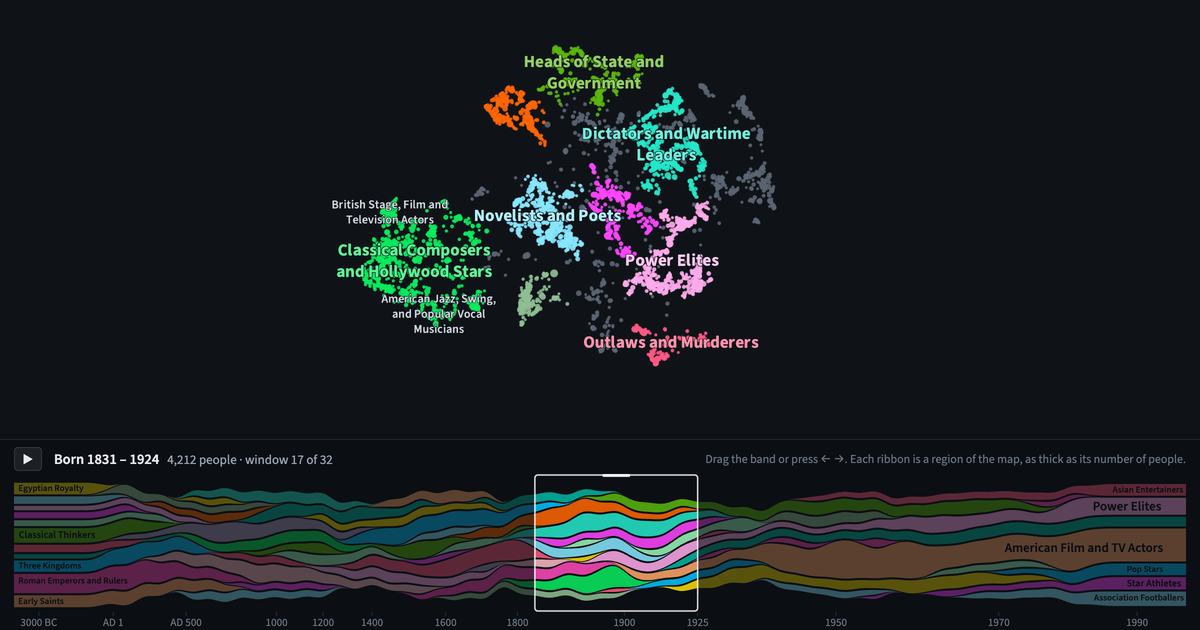
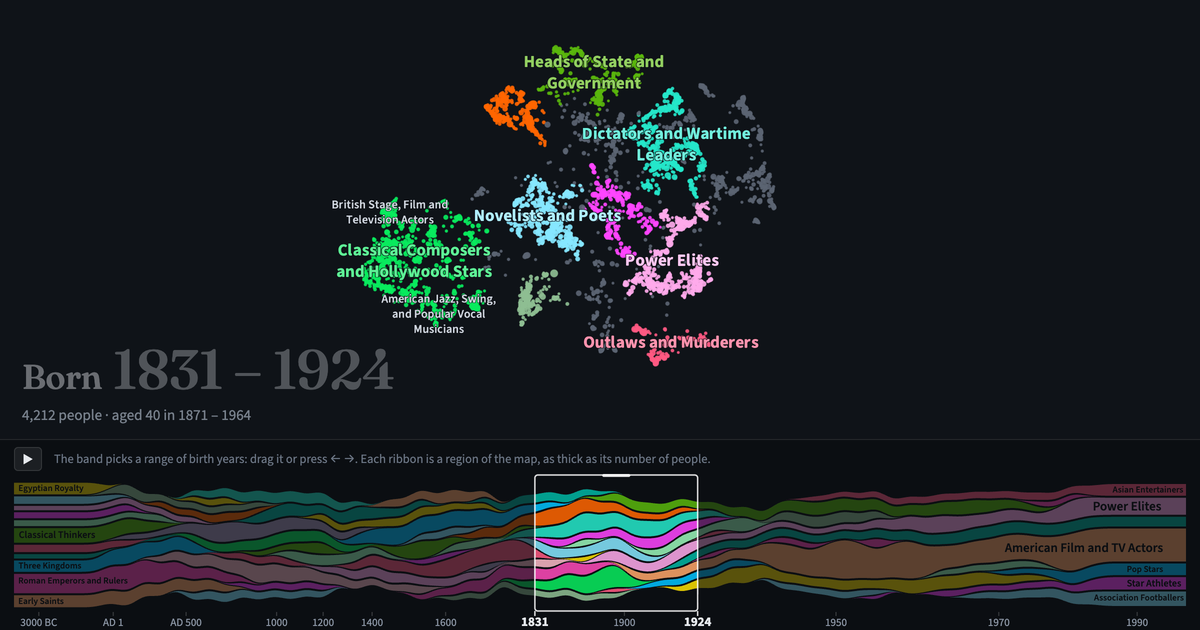
Make the birth-year range prominent and say it is birth, not fame
The range was a small line under the map, and the slider could be read as
the years people were famous. Now:

- "Born 1925 – 1952" is large on the map, behind the points, with the count
  and "aged 40 in 1965 – 1992" under it (windows of at most 150 years).
- The band's edges carry the window's first and last years on the axis;
  the ticks under them hide.
- The subtitle says the slider moves through birth years, not fame years:
  World War II's leaders are around 1880, not 1940.
- The header readout and "window N of 32" are gone; the link card is
  regenerated with the new readout.

diff --git a/docs/app.js b/docs/app.js
@@ -17,6 +17,7 @@
   const STEP_MS = 560;
   const PLAY_WINDOWS_PER_S = 0.75;
   const DIM = 0.1; // alpha factor for points outside a highlight
+  const AGED_SPAN_MAX = 150; // years: the readout's "aged 40 in" line shows for windows no wider (1773-1914 on)
   const FONT = '"Source Sans 3", "Source Sans Pro", system-ui, sans-serif';
   // Label layers, finest first (stage 09's layer 0 is the finest). As in datamapplot 0.7.3, labels have fixed
   // pixel sizes, coarse labels win collisions and finer ones appear as zooming spreads them apart -- but the
@@ -28,6 +29,9 @@
     { size: 17, weight: 700, wrap: 22, base: 600, color: null },
   ];
   const GAP = 2; // px between ribbons
+  const TICK_SIZE = 11; // px, year ticks on the timeline's axis (as in style.css)
+  const EDGE_SIZE = 13; // px, the band's edge years (as in style.css)
+  const EDGE_GAP = 8; // px kept clear between an edge year and a tick or the other edge year
   const LABEL_PAD = [10, 6]; // px added around each label's box (x, y) when testing overlaps
   const LABEL_FADE_MS = 180;
   // Props handed to every label layer on every frame: created once, so deck.gl sees them unchanged.
@@ -521,12 +525,21 @@
     S.anim = requestAnimationFrame(tick);
   }
 
+  // The range on the map. "Aged 40 in" moves the reader from birth years to the years these people were
+  // active (the slider is about birth, not events); only where 40 years is a real shift against the window's
+  // span -- in the earliest windows, spanning centuries, it would be noise.
   function updateReadout() {
     const w = Math.round(S.s);
+    if (w === S.readoutWindow) return;
+    S.readoutWindow = w;
     const W = core.windows;
-    $("readout").innerHTML = `Born ${esc(fmtYear(W.lo[w]))} – ${esc(fmtYear(W.hi[w]))}` +
-      `<span class="n">${W.n[w].toLocaleString("en-US")} people · window ${w + 1} of ${NW}</span>`;
+    const range = `${fmtYear(W.lo[w])} – ${fmtYear(W.hi[w])}`;
+    $("era-years").textContent = range;
+    let sub = `${W.n[w].toLocaleString("en-US")} people`;
+    if (W.hi[w] - W.lo[w] <= AGED_SPAN_MAX) sub += ` · aged 40 in ${fmtYear(W.lo[w] + 40)} – ${fmtYear(W.hi[w] + 40)}`;
+    $("era-sub").textContent = sub;
     $("tl-svg").setAttribute("aria-valuenow", String(w));
+    $("tl-svg").setAttribute("aria-valuetext", "Born " + range);
     if (S.mask && w !== S.statusWindow) { S.statusWindow = w; searchStatus(); }
   }
 
@@ -818,6 +831,7 @@
     // Year axis: ticks at their true positions along the equal-people bins.
     let lastX = -1e9;
     const yAxis = TL.h - TL.axis;
+    TL.ticks = [];
     for (const yr of TICK_YEARS) {
       const b = yearToBin(yr);
       if (b === null) continue;
@@ -826,13 +840,21 @@
       lastX = x;
       const g = el("g", { class: "tick" }, gA);
       el("line", { x1: x, x2: x, y1: yAxis, y2: yAxis + 4 }, g);
-      el("text", { x, y: yAxis + 14 }, g).textContent = fmtYear(yr);
+      const text = fmtYear(yr);
+      el("text", { x, y: yAxis + 14 }, g).textContent = text;
+      TL.ticks.push({ g, x, half: textWidth(text, TICK_SIZE, 400) / 2 });
     }
-    // Lens: shade outside the 5 bins on the map, outline the band.
+    // Lens: shade outside the 5 bins on the map, outline the band, and label its edges with the window's
+    // first and last birth years (the ticks under those labels hide).
     TL.shadeL = el("rect", { class: "shade", y: 0, height: yAxis }, gB);
     TL.shadeR = el("rect", { class: "shade", y: 0, height: yAxis }, gB);
     TL.band = el("rect", { class: "band", y: 1, height: yAxis - 2, rx: 3 }, gB);
     TL.grip = el("rect", { class: "grip", y: 0, height: 3, rx: 1.5 }, gB);
+    TL.edges = [0, 1].map(() => ({
+      line: el("line", { class: "edge-tick", y1: yAxis - 1, y2: yAxis + 4 }, gB),
+      text: el("text", { class: "edge", y: yAxis + 14 }, gB),
+      label: null,
+    }));
     drawBand();
     return true;
   }
@@ -850,6 +872,29 @@
     TL.band.setAttribute("height", yAxis - 2);
     TL.grip.setAttribute("x", (x0 + x1) / 2 - 14);
     TL.grip.setAttribute("width", 28);
+    // Edge labels: the years of the window the map shows (the nearest one while dragging, as the readout),
+    // centred under the band's edges, kept inside the chart and apart from each other.
+    const w = Math.round(S.s), W = core.windows;
+    const texts = [fmtYear(W.lo[w]), fmtYear(W.hi[w])];
+    const half = texts.map((t) => textWidth(t, EDGE_SIZE, 700) / 2);
+    let c0 = x0, c1 = x1;
+    const short = c0 + half[0] + EDGE_GAP - (c1 - half[1]);
+    if (short > 0) { c0 -= short / 2; c1 += short / 2; }
+    const inL = Math.max(0, 2 - (c0 - half[0])), inR = Math.max(0, c1 + half[1] - (TL.w - 2));
+    c0 += inL - inR;
+    c1 += inL - inR;
+    [x0, x1].forEach((x, i) => {
+      const e = TL.edges[i], c = i ? c1 : c0;
+      e.line.setAttribute("x1", x);
+      e.line.setAttribute("x2", x);
+      e.text.setAttribute("x", c.toFixed(1));
+      if (e.label !== texts[i]) { e.label = texts[i]; e.text.textContent = texts[i]; }
+    });
+    const spans = [[c0 - half[0], c0 + half[0]], [c1 - half[1], c1 + half[1]]];
+    for (const t of TL.ticks) {
+      const hide = spans.some(([a, b]) => t.x + t.half + EDGE_GAP > a && t.x - t.half - EDGE_GAP < b);
+      if (t.hidden !== hide) { t.hidden = hide; t.g.style.display = hide ? "none" : ""; }
+    }
   }
 
   function hoverRibbon(t, e) {

diff --git a/docs/style.css b/docs/style.css
@@ -28,6 +28,31 @@ html, body {
   inset: 0 0 var(--tl-h) 0;
 }
 
+/* The birth-year range, behind the points (Gapminder's year). */
+#era {
+  position: absolute;
+  left: 22px;
+  bottom: calc(var(--tl-h) + 14px);
+  pointer-events: none;
+  white-space: nowrap;
+}
+#era .range {
+  font-family: var(--serif);
+  font-weight: 560;
+  font-size: clamp(27px, 4.6vw, 66px);
+  line-height: 1;
+  letter-spacing: -0.005em;
+  color: rgba(231, 234, 238, 0.3);
+  font-variant-numeric: lining-nums;
+}
+#era .born { font-size: 0.62em; color: rgba(231, 234, 238, 0.42); }
+#era .sub {
+  margin-top: 8px;
+  font-size: 15px;
+  color: rgba(154, 164, 178, 0.75);
+  font-variant-numeric: tabular-nums;
+}
+
 .panel {
   position: absolute;
   background: var(--panel);
@@ -57,6 +82,7 @@ html, body {
   line-height: 1.4;
   color: var(--dim);
 }
+#title .sub strong { color: var(--text); font-weight: 600; }
 
 .search { position: relative; }
 #search {
@@ -188,9 +214,7 @@ html, body {
   cursor: pointer;
 }
 #play:hover { border-color: var(--accent); }
-#readout { color: var(--text); font-size: 14.5px; font-weight: 600; font-variant-numeric: tabular-nums; }
-#readout .n { color: var(--dim); font-weight: 400; font-size: 13px; margin-left: 8px; }
-#tl-head .hint { margin-left: auto; font-size: 12px; color: var(--faint); text-align: right; }
+#tl-head .hint { font-size: 12.5px; color: var(--faint); }
 #tl-svg { flex: 1; width: 100%; display: block; cursor: pointer; touch-action: none; outline: none; }
 #tl-svg .ribbon { opacity: 0.86; transition: opacity 120ms; }
 #tl-svg.has-hl .ribbon { opacity: 0.35; }
@@ -203,8 +227,18 @@ html, body {
   dominant-baseline: central;
   text-anchor: middle;
 }
-#tl-svg .tick text { fill: var(--faint); font-size: 11px; font-family: var(--sans); text-anchor: middle; }
-#tl-svg .tick line { stroke: rgba(255, 255, 255, 0.12); }
+#tl-svg .tick text { fill: #8a94a3; font-size: 11px; font-family: var(--sans); text-anchor: middle; }
+#tl-svg .tick line { stroke: rgba(255, 255, 255, 0.2); }
+#tl-svg .edge {
+  fill: var(--text);
+  font-size: 13px;
+  font-weight: 700;
+  font-family: var(--sans);
+  text-anchor: middle;
+  font-variant-numeric: tabular-nums;
+  pointer-events: none;
+}
+#tl-svg .edge-tick { stroke: rgba(255, 255, 255, 0.85); stroke-width: 1.5; pointer-events: none; }
 #tl-svg .shade { fill: rgba(11, 14, 18, 0.62); pointer-events: none; }
 #tl-svg .band { fill: none; stroke: rgba(255, 255, 255, 0.85); stroke-width: 1.5; pointer-events: none; }
 #tl-svg .grip { fill: rgba(255, 255, 255, 0.85); pointer-events: none; }

diff --git a/docs/index.html b/docs/index.html
@@ -19,12 +19,18 @@
 <script src="https://unpkg.com/deck.gl@9.1.15/dist.min.js"></script>
 </head>
 <body>
+<!-- The birth-year range, large and behind the points (deck.gl's canvas is transparent). -->
+<div id="era" aria-hidden="true">
+  <div class="range"><span class="born">Born</span> <span id="era-years"></span></div>
+  <div id="era-sub" class="sub"></div>
+</div>
 <div id="map"></div>
 
 <header id="title" class="panel">
   <h1>People Through Time</h1>
   <p class="sub">The most famous people of every era, from all Wikipedias, placed by what they are known for.
-    Move the slider below to travel through birth years.</p>
+    Move the slider below through the years people were <strong>born</strong>, not the years they were famous:
+    you'll find World War II's leaders around 1880, not 1940.</p>
   <div class="search">
     <input id="search" type="search" placeholder="Search 31,000 people…" autocomplete="off" spellcheck="false" aria-label="Search people">
     <div id="search-status" class="status"></div>
@@ -47,8 +53,8 @@
 <section id="timeline" aria-label="Birth-year slider">
   <div id="tl-head">
     <button id="play" type="button" aria-label="Play">&#9654;</button>
-    <span id="readout"></span>
-    <span class="hint">Drag the band or press ← →. Each ribbon is a region of the map, as thick as its number of people.</span>
+    <span class="hint">The band picks a range of birth years: drag it or press ← →. Each ribbon is a region of the map,
+      as thick as its number of people.</span>
   </div>
   <svg id="tl-svg" role="slider" aria-label="Birth-year window" tabindex="0"></svg>
   <div id="tl-tip" class="tip" hidden></div>

diff --git a/CLAUDE.md b/CLAUDE.md
@@ -561,6 +561,28 @@ Planned next: see "Frontend, what's left".
     else stage 11b's short name, else none (tooltip on hover); 21 of 50 at
     1440 px wide. Hovering a ribbon highlights its people on the map (others
     at 10% alpha); hovering a person highlights their ribbon.
+  - **Birth-year readout** (2026-11-10, Steven: the range was a small line
+    under the map, and a reader could take the slider for the years people
+    were famous -- someone on 1925-1952 asking where the WWII leaders are,
+    who are in windows 14-19, born 1874-1891). The range is big
+    on the map, "Born 1925 – 1952" in the title serif at 30% white behind the
+    points (Gapminder's year; deck.gl's canvas is transparent), lower left,
+    with the count and "aged 40 in 1965 – 1992" under it. The aged-40 line
+    turns birth years into roughly the years these people were active, and
+    shows only for windows of at most 150 years (`AGED_SPAN_MAX`, 1773-1914
+    on): over centuries-wide windows 40 years is noise. It says "aged" so the
+    tense still works once the years run past 2026. The band's edges carry
+    the window's first and last years on the axis (bold, white; the ticks
+    under them hide), and the subtitle says the slider is birth years, not
+    fame years, with the example put as where to look ("you'll find World
+    War II's leaders around 1880, not 1940"; stated as a birth-decade fact
+    it read as a non-sequitur). The small header
+    readout and its "window N of 32" are gone. Considered and dropped: three
+    famous names per window (the top three by score repeat across windows
+    and are awkward picks: Hitler tops windows 16-19, Ansel Adams -- the
+    crawler suspect -- is second in 17-19, Epstein third in 1945-1964); a
+    lifespan shadow on the timeline (the 1925-1952 people were alive in
+    WWII, as children).
   - **Colour**: points by coarse track (grey `#5b6472` outside every coarse
     track; blended while a person changes track). Interval colouring with a
     1-window buffer, so no two coarse tracks alive within a window of each
